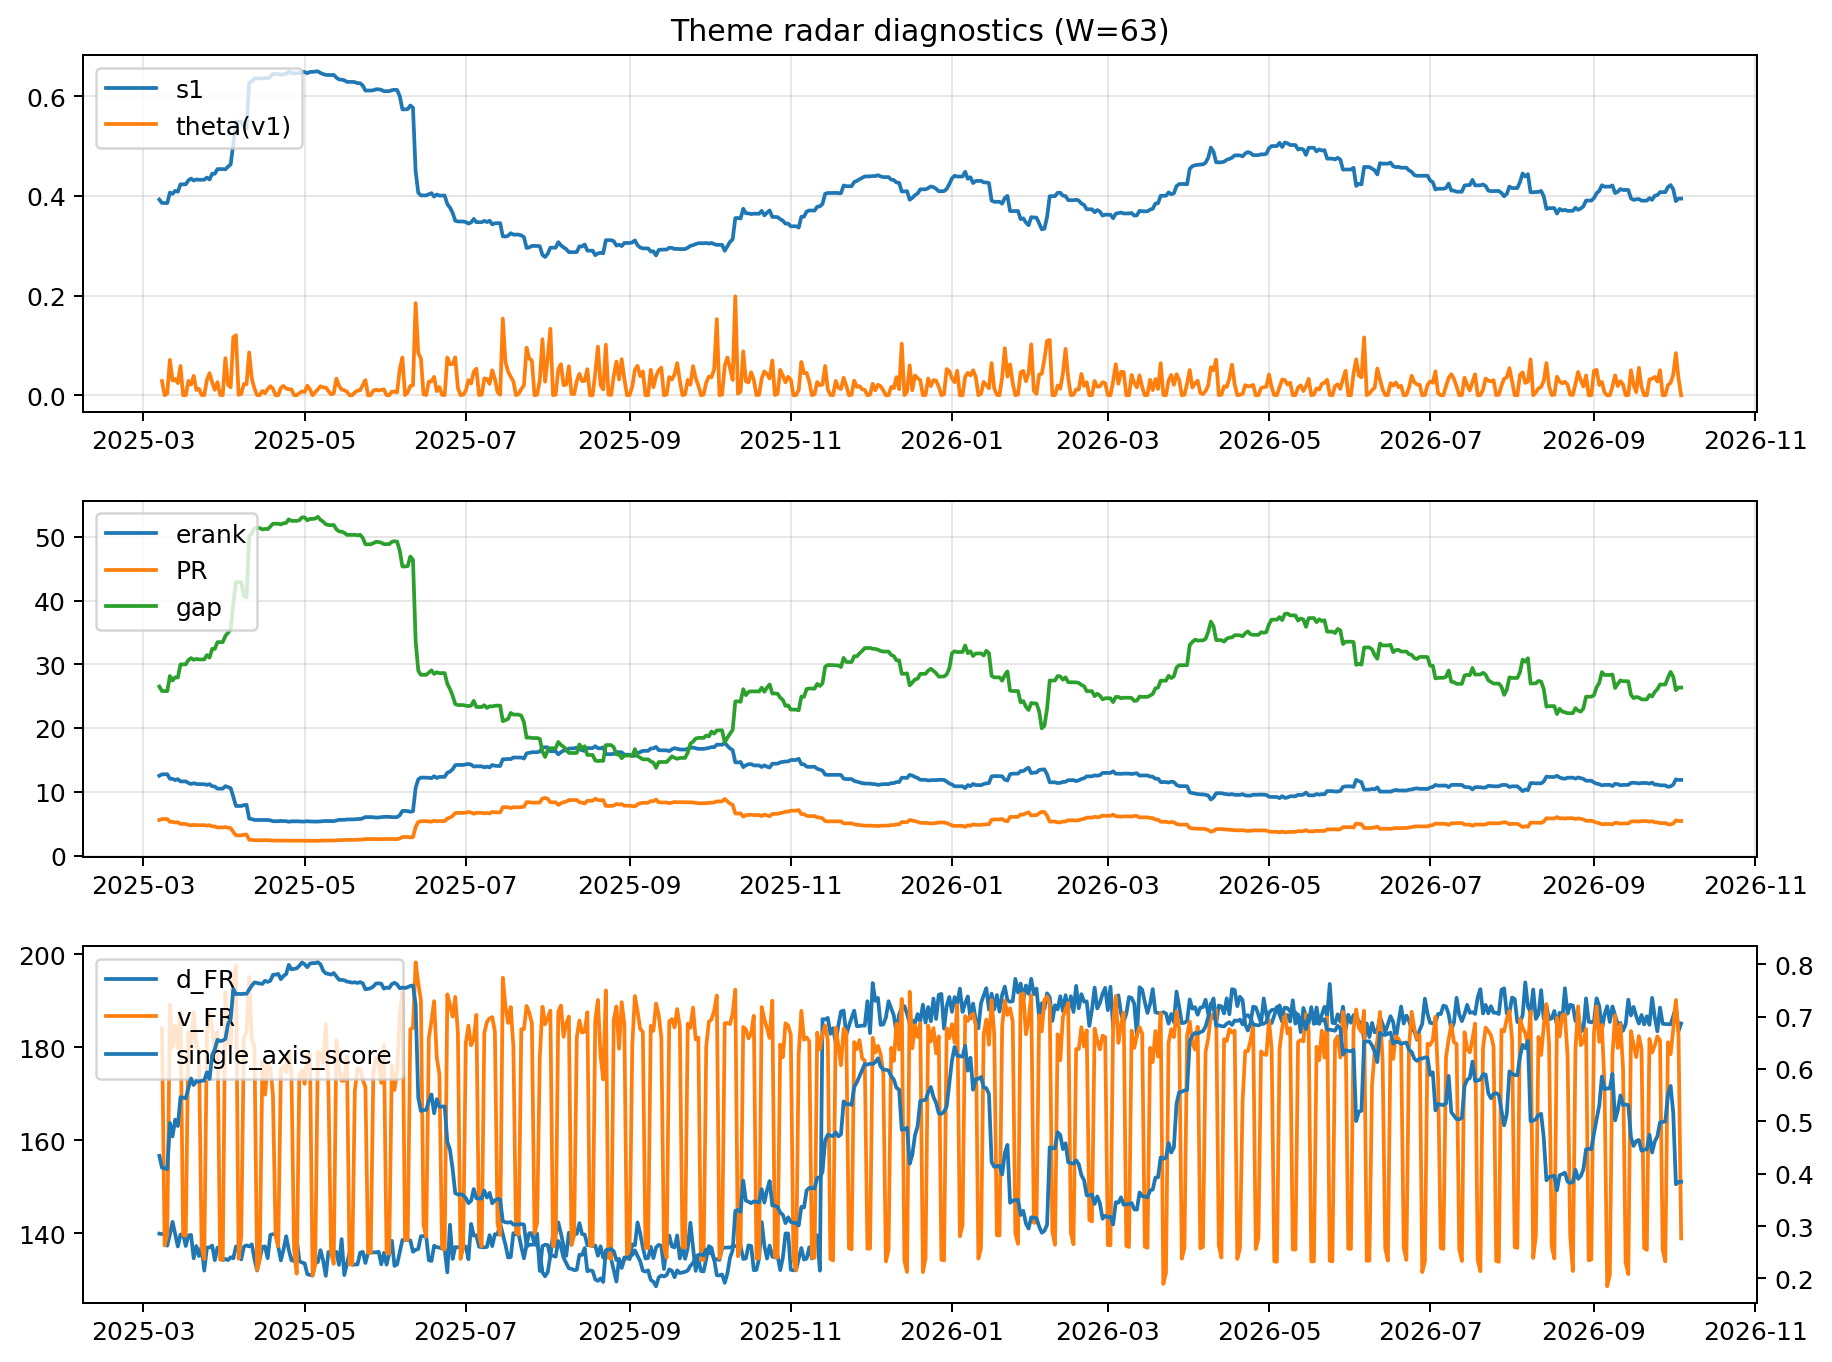
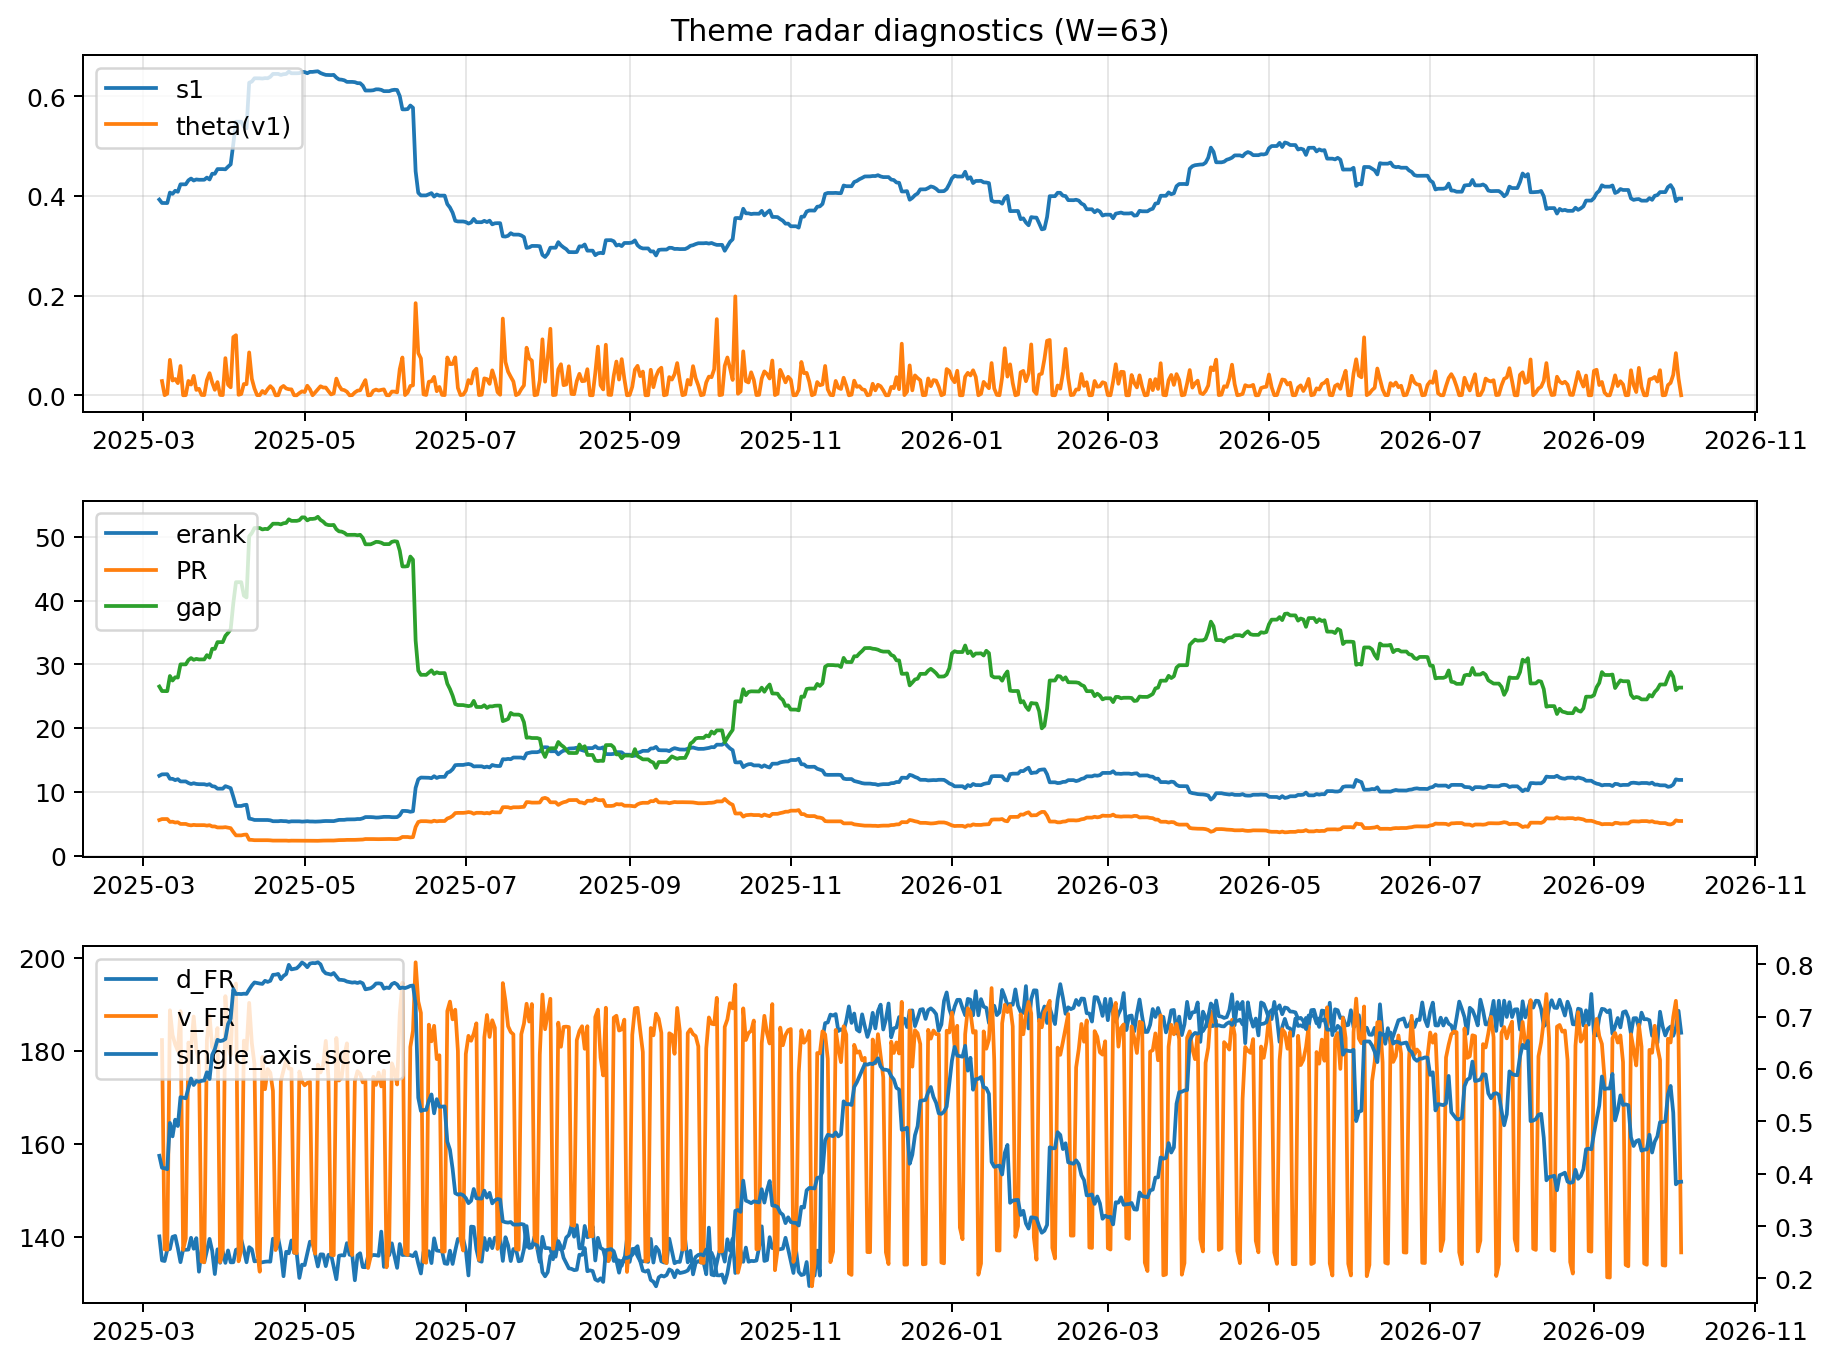
log: 2026-10-04 | sha256:a31bb5614f0b2f297595aae1e788e69feaddb2b440096683f2fdf917979aaeb0

diff --git a/logs/2026-10-04.md b/logs/2026-10-04.md
@@ -3,43 +3,43 @@
 ![diagnostic W63](../assets/diagnostic/2026-10-04_W63.png)
 
 ## Leaders (v1) — W=63
-- **Nuclear_Uranium** (0.0749110529136374)
-- Semis (0.0609044985713517)
-- Space (0.0570990766451823)
+- **Nuclear_Uranium** (0.0749110561202405)
+- Semis (0.0609044893882295)
+- Space (0.0570990783549668)
 
 ## Challengers — W=63
-**v2:** Semis (0.0973311154225164), Genomics_Bio (0.082081309225772), Grid_Power (0.0765067779117267)
-**v3:** Software_Cloud (0.0960921697577971), Metals (0.0739066334961886), Cyber (0.0675361311881421)
+**v2:** Semis (0.0973311708954585), Genomics_Bio (0.0820813890611108), Grid_Power (0.07650679817445)
+**v3:** Software_Cloud (0.096092120323091), Metals (0.0739066632550108), Cyber (0.0675360960515535)
 
 ## Migration (20D slope) — W=63
 **Top risers:**
-- axis_Rates: 0.0010079647642842
-- axis_DataCenter_Infra: 0.0005919732906879
-- axis_Sector_RealEstate: 0.0004402888321062
-- axis_Software_Cloud: 0.0003651595878084
-- axis_Commodities: 0.0003226267673092
-- axis_Credit: 0.0002468246888675
-- axis_Sector_Utilities: 0.0002392691388988
-- axis_Sector_ConsDisc: 0.0002180775875154
-- axis_Sector_Materials: 0.0002058037343322
-- axis_Sector_Comm: 0.0001388484365265
+- axis_Rates: 0.0010079677269082
+- axis_DataCenter_Infra: 0.0005919731684148
+- axis_Sector_RealEstate: 0.0004402887356067
+- axis_Software_Cloud: 0.0003651594767942
+- axis_Commodities: 0.0003226264107338
+- axis_Credit: 0.0002468204680719
+- axis_Sector_Utilities: 0.0002392690321966
+- axis_Sector_ConsDisc: 0.0002180776715594
+- axis_Sector_Materials: 0.0002058037979369
+- axis_Sector_Comm: 0.0001388480906772
 
 **Top fallers:**
-- axis_Clean_Broad: -0.0001265198951412
-- axis_Metals: -0.00015337442757
-- axis_Critical_Minerals: -0.0001701802327891
-- axis_Drones_Autonomy: -0.0002390243537871
-- axis_Space: -0.0003042500219665
-- axis_Grid_Power: -0.0003072617415172
-- axis_Sector_ConsStap: -0.0003098848852808
-- axis_Quantum: -0.000404931874526
-- axis_Semis: -0.0004994969244695
-- axis_Nuclear_Uranium: -0.0005373118352597
+- axis_Clean_Broad: -0.0001265198789288
+- axis_Metals: -0.0001533744372634
+- axis_Critical_Minerals: -0.0001701799399843
+- axis_Drones_Autonomy: -0.0002390241918742
+- axis_Space: -0.0003042497706389
+- axis_Grid_Power: -0.000307261859528
+- axis_Sector_ConsStap: -0.000309884845785
+- axis_Quantum: -0.0004049320212362
+- axis_Semis: -0.000499496575633
+- axis_Nuclear_Uranium: -0.0005373118830482
 
 ## Risk line (W=63)
-- s1: 0.3945576035816235
-- theta_v1: 9.274485244227126e-05
-- v_FR: 138.9031176697994
+- s1: 0.3945576576892741
+- theta_v1: 9.274484406276412e-05
+- v_FR: 136.58241566426798
 - single_axis_score: 0.3847487001733102
 
 ## Interpretation
@@ -48,7 +48,7 @@
 - Action: Tomorrow watchlist: Rates, DataCenter_Infra, Sector_RealEstate, Software_Cloud, Commodities + v2_top1=Semis
 - Action: Hedge note: normal correlation stability.
 
-- Percentiles (W=63 history): vfr_pct=0.24, theta_pct=0.06, s1_pct=0.40, score_pct=0.32.
+- Percentiles (W=63 history): vfr_pct=0.15, theta_pct=0.06, s1_pct=0.40, score_pct=0.32.
 
 ---
[2 lines of base64/hex data omitted]
